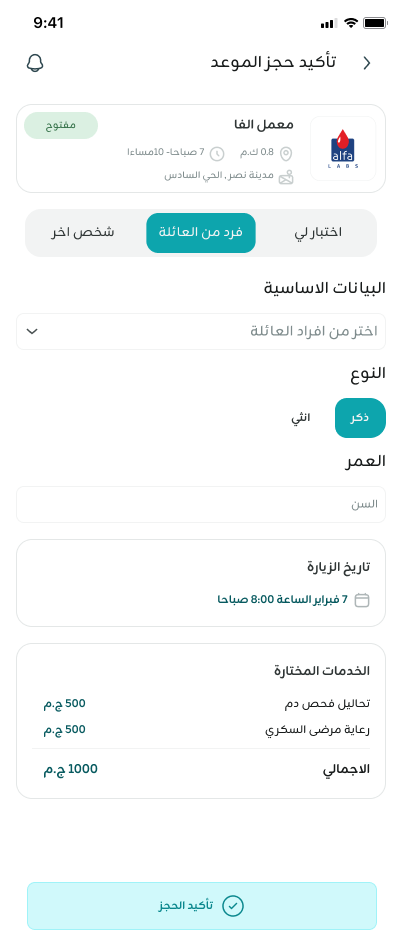
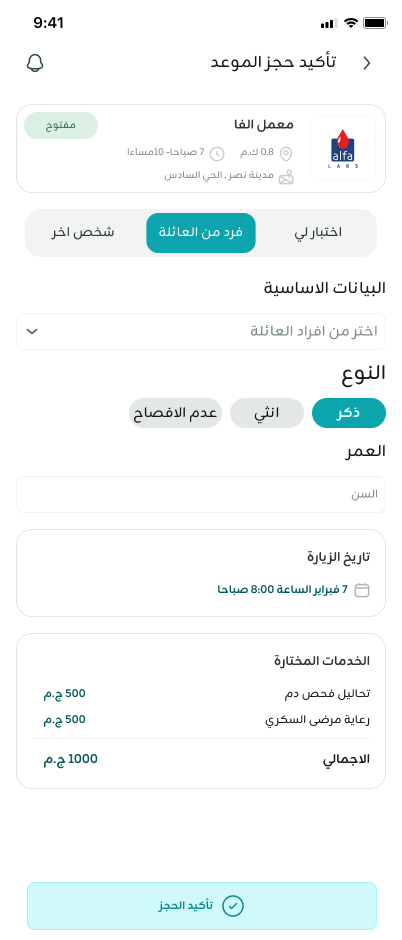
Update Bcare "book for family" screenshot with the clearer version
Replaces 12_fasting_notice.png (used for both the "Booking flexibility"
decision block and the full screen gallery) with an updated capture
showing the gender selector as three pill buttons instead of two.

Also fixes the nav Contact button's radius (7px -> 8px) to match the
documented button radius scale.

Changed region(s): [[0.0896, 0.5862, 0.9254, 0.833], [0.3284, 0.3702, 0.9552, 0.5553], [0.0896, 0.7096, 0.2388, 0.833]]

diff --git a/src/components/Nav.module.css b/src/components/Nav.module.css
@@ -62,7 +62,7 @@
   background: var(--navy-deep-2);
   border: 1px solid var(--border-strong);
   padding: 9px 18px;
-  border-radius: 7px;
+  border-radius: 8px;
   transition: border-color 0.15s ease;
 }
 
